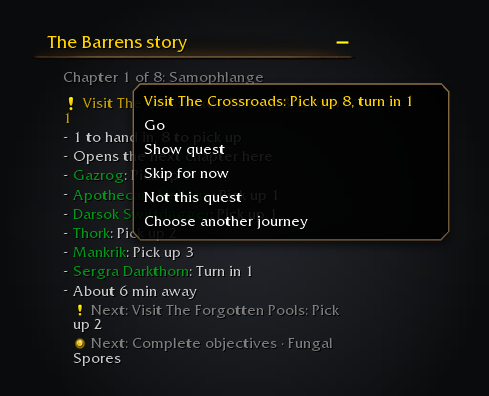
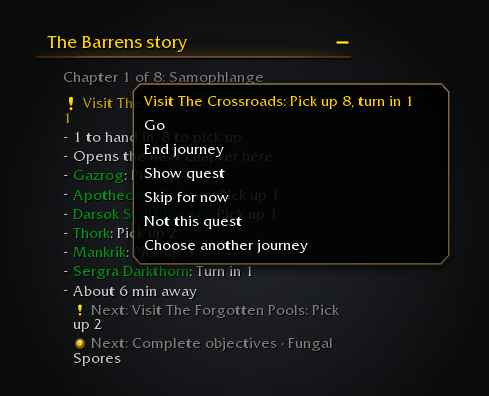
fix(menu): End journey from the tracker and explain a closed guide
The step menu offers End journey whenever a journey is chosen, paused or not. Choose another journey says to expand the quest sidebar instead of doing nothing, and a step title's right-click opens the step menu (#641).

Claude-Session: https://claude.ai/code/session_01BVTqPz8ngWCb6Jm35m3gRV

diff --git a/docs/design.md b/docs/design.md
@@ -60,7 +60,10 @@ abandons quests.
   the player is at (the nearest edge, since an area's spots are close and often overlap). Model.Here doesn't count
   standing at a spot passed over as standing in the area (with a switching margin), so the arrow leads on, and at a
   spot not passed over it is theirs; walking between spots rebuilds when that changes. Passing over the last spot
-  starts the round again from it.
+  starts the round again from it. A step's menu in the tracker opens from its title's right-click as from its row in
+  the guide, and offers End journey whenever a journey is chosen, paused or not: it clears the choice and the route
+  AGF started for it. Choose another journey opens the guide, and when the map's quest sidebar is collapsed says to
+  expand it rather than doing nothing.
 - **2.9 Tooltips.** Explain visits and quest difficulty. Town checklists tick completed givers;
   repeated visits share a map ring.
 - **2.10 Lifecycle.** Keep the chosen journey through rebuilds, travel and reloads. Resume paused

diff --git a/CHANGELOG.md b/CHANGELOG.md
@@ -12,6 +12,8 @@ optional `### For addon authors` subsection after a version's player bullets.
 
 ## [Unreleased]
 
+- **The tracker's menu can end a journey, and Choose another journey always does something.** There was no way to cancel a paused journey from the tracker, and Choose another journey opened nothing when the map's quest sidebar was collapsed. The menu now offers End journey whenever a journey is chosen, paused or not, instead of Stop only while it guides, and says to expand the quest sidebar when the guide cannot open. Right-clicking a step's title in the tracker opens the same menu (#641).
+
 ## [1.6.0] - 2026-11-10
 
 <!-- discord-image: docs/screenshots/panel.png -->
